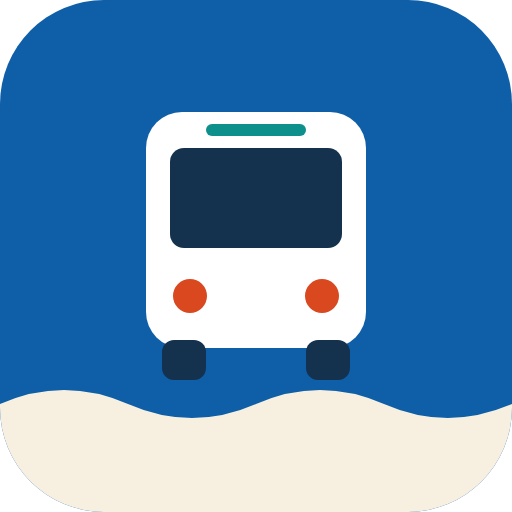
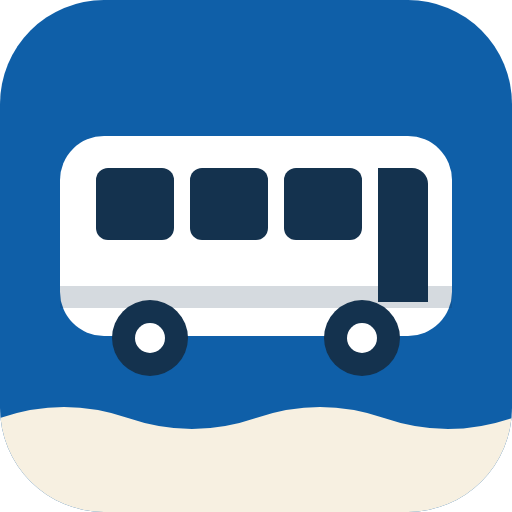
Capçalera amb icones, icona de bus nova, altra vorera i peu de pàgina
- Capçalera: icona de bus i títol que tornen a «Pròxim bus"; botons d'alt
  contrast, text gran i mode fosc (lluna/sol) al costat de l'idioma.
- Icona de l'app nova (bus de costat) en totes les mides.
- Cinc pestanyes, a tot l'ample en PC; «Sobre l'app» passa al peu, amb
  «Avisa d'un error» (camp contacte de servei.json) i «Instal·la l'app».
- Targeta: sentit de la parada i parades següents; requadre de la parada
  de l'altra vorera (5/14, 6/13, 7/12).
- Tests automàtics en GitHub Actions. sw.js: VERSIO 3.

Claude-Session: https://claude.ai/code/session_01WhiUZURAswTC63Z3xvBL9s

Changed region(s): [[0.0, 0.2188, 1.0, 0.8438]]

diff --git a/index.html b/index.html
@@ -20,7 +20,11 @@
 <a class="salta" href="#contingut" data-i18n="app.salta"></a>
 <header class="capcalera">
   <div class="pagina capcalera-dins">
-    <p class="marca"><span data-i18n="app.titol"></span> <span class="marca-lloc">Oliva</span></p>
+    <a class="marca" href="#proper"><svg class="icona-bus" width="30" height="20" viewBox="40 130 432 270" aria-hidden="true" focusable="false"><rect x="60" y="150" width="392" height="200" rx="44" fill="currentColor"/><g fill="var(--cap-fons)"><rect x="96" y="182" width="78" height="72" rx="12"/><rect x="190" y="182" width="78" height="72" rx="12"/><rect x="284" y="182" width="78" height="72" rx="12"/><path d="M378 182h34a16 16 0 0 1 16 16v118h-50z"/></g><circle cx="150" cy="352" r="38" fill="currentColor"/><circle cx="150" cy="352" r="15" fill="var(--cap-fons)"/><circle cx="362" cy="352" r="38" fill="currentColor"/><circle cx="362" cy="352" r="15" fill="var(--cap-fons)"/></svg><span data-i18n="app.titol"></span> <span class="marca-lloc">Oliva</span></a>
+    <div class="eines-cap">
+      <button type="button" class="boto-icona" data-mode="contrast" aria-pressed="false"><svg width="22" height="22" viewBox="0 0 24 24" aria-hidden="true" focusable="false"><circle cx="12" cy="12" r="9" fill="none" stroke="currentColor" stroke-width="2"/><path d="M12 3a9 9 0 0 1 0 18z" fill="currentColor"/></svg><span class="vh" data-i18n="vis.contrast"></span></button>
+      <button type="button" class="boto-icona" data-mode="text" aria-pressed="false"><span class="icona-text" aria-hidden="true">A<span>A</span></span><span class="vh" data-i18n="vis.text"></span></button>
+      <button type="button" class="boto-icona" data-mode="fosc" aria-pressed="false"><svg class="icona-lluna" width="22" height="22" viewBox="0 0 24 24" aria-hidden="true" focusable="false"><path d="M20 14.5A8 8 0 0 1 9.5 4a8 8 0 1 0 10.5 10.5z" fill="currentColor"/></svg><svg class="icona-sol" width="22" height="22" viewBox="0 0 24 24" aria-hidden="true" focusable="false"><circle cx="12" cy="12" r="4.5" fill="currentColor"/><path d="M12 1.5v3M12 19.5v3M1.5 12h3M19.5 12h3M4.6 4.6l2.1 2.1M17.3 17.3l2.1 2.1M4.6 19.4l2.1-2.1M17.3 6.7l2.1-2.1" stroke="currentColor" stroke-width="2" stroke-linecap="round"/></svg><span class="vh" data-i18n="vis.fosc"></span></button>
     <div class="idiomes">
       <button type="button" id="idioma-boto" class="idioma-boto" aria-expanded="false" aria-controls="idioma-menu"><span class="vh" data-i18n="app.idioma"></span> <span id="idioma-actual"></span><svg class="caret" width="10" height="6" viewBox="0 0 10 6" aria-hidden="true" focusable="false"><path d="M0 0h10L5 6z" fill="currentColor"/></svg></button>
       <ul id="idioma-menu" class="idioma-menu" hidden>
@@ -28,6 +32,7 @@
         <li><button type="button" data-idioma="es" lang="es"><svg class="bandera" width="24" height="16" viewBox="0 0 30 20" aria-hidden="true" focusable="false"><rect width="30" height="20" fill="#AA151B"/><rect y="5" width="30" height="10" fill="#F1BF00"/></svg><span>Español</span></button></li>
         <li><button type="button" data-idioma="en" lang="en"><svg class="bandera" width="24" height="16" viewBox="0 0 60 40" aria-hidden="true" focusable="false"><rect width="60" height="40" fill="#012169"/><path d="M0 0l60 40M60 0L0 40" stroke="#fff" stroke-width="8"/><path d="M0 0l60 40M60 0L0 40" stroke="#C8102E" stroke-width="3"/><path d="M30 0v40M0 20h60" stroke="#fff" stroke-width="12"/><path d="M30 0v40M0 20h60" stroke="#C8102E" stroke-width="7"/></svg><span>English</span></button></li>
       </ul>
+    </div>
     </div>
   </div>
 </header>
@@ -50,7 +55,6 @@
       <li><a href="#horari" data-vista="horari" data-i18n="nav.horari"></a></li>
       <li><a href="#mapa" data-vista="mapa" data-i18n="nav.mapa"></a></li>
       <li><a href="#linia" data-vista="linia" data-i18n="nav.linia"></a></li>
-      <li><a href="#sobre" data-vista="sobre" data-i18n="nav.sobre"></a></li>
     </ul>
   </nav>
   <main id="contingut" tabindex="-1">
@@ -60,6 +64,8 @@
       <h1 id="t-proper" tabindex="-1" data-i18n="proper.titol"></h1>
       <div id="proper" class="targeta" tabindex="-1">
         <p id="proper-parada" class="proper-parada"></p>
+        <p id="proper-sentit" class="sentit-etiqueta" hidden></p>
+        <p id="proper-cami" class="nota" hidden></p>
         <p id="proper-falten" class="proper-falten"></p>
         <p id="proper-compte" class="proper-compte"></p>
         <p id="proper-hora" class="proper-hora"></p>
@@ -76,6 +82,15 @@
           <button type="button" id="boto-comparteix" class="boto" data-i18n="comparteix.boto"></button>
         </div>
         <p id="accions-estat" role="status"></p>
+      </div>
+      <div id="vorera" class="vorera" hidden>
+        <span id="vorera-num" class="vorera-num" aria-hidden="true"></span>
+        <div>
+          <p><strong id="vorera-titol"></strong> <span id="vorera-sentit" class="sentit-etiqueta"></span></p>
+          <p id="vorera-cami" class="nota"></p>
+          <p id="vorera-nota" class="nota"></p>
+          <button type="button" id="vorera-boto" class="boto"></button>
+        </div>
       </div>
       <section id="favorites" aria-labelledby="t-favorites" hidden>
         <h2 id="t-favorites" data-i18n="fav.titol"></h2>
@@ -141,12 +156,6 @@
       <p><span id="sobre-font"></span> <a id="sobre-enllac" rel="noopener"></a></p>
       <p data-i18n="sobre.estimades"></p>
       <p id="sobre-festius"></p>
-      <h2 data-i18n="vis.titol"></h2>
-      <div class="modes">
-        <button type="button" class="boto" data-mode="contrast" aria-pressed="false" data-i18n="vis.contrast"></button>
-        <button type="button" class="boto" data-mode="text" aria-pressed="false" data-i18n="vis.text"></button>
-        <button type="button" class="boto" data-mode="fosc" aria-pressed="false" data-i18n="vis.fosc"></button>
-      </div>
       <p><a href="cartells.html" data-i18n="cartells.enllac"></a></p>
       <h2 data-i18n="sobre.privTitol"></h2>
       <ul>
@@ -154,7 +163,7 @@
         <li data-i18n="sobre.priv2"></li>
         <li data-i18n="sobre.priv3"></li>
       </ul>
-      <h2 data-i18n="sobre.iosTitol"></h2>
+      <h2 id="installa-ios" tabindex="-1" data-i18n="sobre.iosTitol"></h2>
       <ol>
         <li data-i18n="sobre.ios1"></li>
         <li data-i18n="sobre.ios2"></li>
@@ -168,6 +177,11 @@
       </ul>
     </section>
   </main>
+  <footer class="peu">
+    <a href="#sobre" data-i18n="nav.sobre"></a>
+    <a id="avisa-error" rel="noopener" target="_blank" data-i18n="peu.error" hidden></a>
+    <button type="button" id="boto-installa" class="enllac" data-i18n="peu.installa"></button>
+  </footer>
 </div>
 <div id="anunci" class="vh" aria-live="polite"></div>
 <noscript><p class="pagina">Cal JavaScript · Hace falta JavaScript · JavaScript is required</p></noscript>

diff --git a/js/app.js b/js/app.js
@@ -113,11 +113,54 @@ function tria(num, mouFocus) {
 }
 
 // ---------- Pròxim bus ----------
+// «7 Via de Ronda · 8 Plaça d’Europa · 9 Sector 5…»: les parades següents, amb el nom
+// fins al parèntesi.
+function seguentsParades(p) {
+  const ps = parades();
+  const resta = ps.slice(ps.indexOf(p) + 1);
+  const grups = [];
+  resta.slice(0, 3).forEach((q) => {
+    const curt = nom(q).split(' (')[0];
+    const darrer = grups[grups.length - 1];
+    if (darrer && darrer.nom === curt) darrer.nums.push(q.num);
+    else grups.push({ nom: curt, nums: [q.num] });
+  });
+  return grups.map((g) => g.nums.join(', ') + ' ' + g.nom).join(' · ') + (resta.length > 3 ? '…' : '');
+}
+
+// Parada de l'altra vorera: el mateix punt en sentit contrari (no l'eixida ni l'arribada).
+function altraVorera(p) {
+  const ps = parades();
+  return ps.filter((q, i) => q !== p && q.punt === p.punt && i !== 0 && i !== ps.length - 1)[0] || null;
+}
+
+function pintaVorera(p) {
+  const q = altraVorera(p);
+  $('#vorera').hidden = !q;
+  if (!q) return;
+  const ps = parades();
+  $('#vorera-num').textContent = q.num;
+  $('#vorera-titol').textContent = t('vorera.titol', { num: q.num });
+  $('#vorera-sentit').textContent = '→ ' + sentit(q);
+  $('#vorera-cami').textContent = t('proper.seguentsParades', { llista: seguentsParades(q) });
+  $('#vorera-nota').textContent = t(ps.indexOf(q) > ps.indexOf(p) ? 'vorera.mesAvant' : 'vorera.abans');
+  const boto = $('#vorera-boto');
+  boto.textContent = t('vorera.boto', { num: q.num });
+  boto.setAttribute('data-num', q.num);
+}
+
 function pintaProper(ara) {
   const p = paradaActual();
   const el = $('#proper-parada');
-  el.textContent = etiqueta(p);
+  el.textContent = t('proper.parada', { num: p.num }) + ' · ' + nom(p);
   el.setAttribute('data-num', p.num);
+  const s = sentit(p);
+  $('#proper-sentit').hidden = !s;
+  $('#proper-sentit').textContent = s ? (parades().indexOf(p) > 0 && parades().indexOf(p) < parades().length - 1 ? '→ ' : '') + s : '';
+  const cami = seguentsParades(p);
+  $('#proper-cami').hidden = !cami;
+  $('#proper-cami').textContent = cami ? t('proper.seguentsParades', { llista: cami }) : '';
+  pintaVorera(p);
   const nota = $('#proper-estimat');
   nota.hidden = !(p.estimat || senseHoraPas(p));
   if (senseHoraPas(p)) {
@@ -184,7 +227,7 @@ function pintaAPeu(p, primer, ara) {
   const min = S.minutsAPeu(d.metres);
   if (senseHoraPas(p)) {
     el.className = 'nota';
-    el.textContent = t('ubic.tardes', { min });
+    el.textContent = t('ubic.tardes', { min, dist: distancia(d.metres) });
   } else if (primer.ms - ara >= min * 60000) {
     el.className = 'nota';
     el.textContent = t('ubic.atemps', { min });
@@ -305,6 +348,20 @@ function aplicaModes() {
   document.documentElement.classList.toggle('fosc', fosc);
   document.documentElement.classList.toggle('clar', !fosc);
   $('[data-mode="fosc"]').setAttribute('aria-pressed', String(fosc));
+}
+
+// ---------- Instal·lació ----------
+let peticioInstal = null;
+const installada = () => (window.matchMedia && window.matchMedia('(display-mode: standalone)').matches) || navigator.standalone === true;
+// En Android s'usa el diàleg del navegador; si no n'hi ha (iPhone), les instruccions de «Sobre l'app».
+function installa() {
+  if (peticioInstal) {
+    peticioInstal.prompt();
+    peticioInstal = null;
+    return;
+  }
+  if (location.hash !== '#sobre') location.hash = '#sobre';
+  setTimeout(() => { const h = $('#installa-ios'); h.scrollIntoView(); h.focus(); }, 0);
 }
 
 // ---------- Selector i cerca ----------
@@ -432,6 +489,10 @@ function pintaComuns(ara) {
   const sv = estat.servei;
   const avui = S.diaMadrid(ara);
   $('#banner-gratuit').hidden = !sv.gratuit;
+  const error = $('#avisa-error');
+  error.hidden = !sv.contacte;
+  if (sv.contacte) error.href = sv.contacte;
+  $('#boto-installa').hidden = installada();
   $('#avisos').innerHTML = estat.avisos
     .filter((a) => a.inici <= avui && (!a.fi || a.fi >= avui))
     .map((a) => '<p class="avis-oficial">' + escapa(a.text[idioma()] || a.text.va) + '</p>').join('');
@@ -561,6 +622,11 @@ function inicia() {
   $('#anar-origen').addEventListener('change', () => pintaAnar(Date.now()));
   $('#anar-desti').addEventListener('change', () => pintaAnar(Date.now()));
   $('#horari-parada').addEventListener('change', () => pintaHorari(Date.now()));
+  // El títol de la capçalera torna sempre a «Pròxim bus».
+  $('.marca').addEventListener('click', () => { if (location.hash === '#proper') mostraVista('proper', true); });
+  $('#vorera-boto').addEventListener('click', (e) => tria(+e.currentTarget.getAttribute('data-num'), true));
+  window.addEventListener('beforeinstallprompt', (e) => { e.preventDefault(); peticioInstal = e; });
+  $('#boto-installa').addEventListener('click', installa);
   window.addEventListener('hashchange', () => {
     const v = location.hash.slice(1);
     if (VISTES.indexOf(v) >= 0) mostraVista(v, true);

diff --git a/css/app.css b/css/app.css
@@ -76,7 +76,22 @@ h1:focus, main:focus, .targeta:focus { outline-offset: 4px; }
   display: flex; flex-wrap: wrap; align-items: center; justify-content: space-between;
   gap: .5rem; padding-top: .5rem; padding-bottom: .5rem;
 }
-.marca { margin: 0; font: 1rem/1.2 var(--xifres); }
+.marca {
+  display: inline-flex; align-items: center; gap: .5rem; min-height: 44px; margin-right: auto;
+  font: 1rem/1.2 var(--xifres); color: var(--cap-text); text-decoration: none;
+}
+.icona-bus { flex: 0 0 auto; color: var(--cap-text); }
+.eines-cap { display: flex; align-items: center; gap: .375rem; margin-left: auto; }
+.boto-icona {
+  display: inline-flex; align-items: center; justify-content: center; width: 44px; height: 44px; padding: 0;
+  border: 2px solid var(--cap-text); border-radius: 12px; background: transparent; color: var(--cap-text);
+  font: 1rem/1 var(--xifres); cursor: pointer;
+}
+.boto-icona[aria-pressed="true"] { background: var(--cap-text); color: var(--cap-fons); }
+.icona-text { font-size: .75rem; }
+.icona-text span { font-size: 1.125rem; }
+.icona-sol, html.fosc .icona-lluna { display: none; }
+html.fosc .icona-sol { display: block; }
 .marca-lloc { font-family: 'Lexend', sans-serif; }
 @media (max-width: 26rem) { .marca-lloc { display: none; } }
 .idiomes { position: relative; }
@@ -119,8 +134,12 @@ h1:focus, main:focus, .targeta:focus { outline-offset: 4px; }
   list-style: none; margin: .75rem 0 0; padding: 0;
   display: grid; grid-template-columns: repeat(3, minmax(0, 1fr)); gap: .375rem;
 }
-@media (max-width: 20rem) { .navegacio ul { grid-template-columns: repeat(2, minmax(0, 1fr)); } }
-@media (min-width: 40rem) { .navegacio ul { grid-template-columns: repeat(6, auto); justify-content: start; } }
+/* Cinc pestanyes: 3 + 2 en el mòbil i totes en una fila, a tot l'ample, en pantalles grans. */
+.navegacio ul { grid-template-columns: repeat(6, minmax(0, 1fr)); }
+.navegacio li { grid-column: span 2; }
+.navegacio li:nth-child(n+4) { grid-column: span 3; }
+@media (max-width: 20rem) { .navegacio ul { grid-template-columns: minmax(0, 1fr); } .navegacio li, .navegacio li:nth-child(n+4) { grid-column: auto; } }
+@media (min-width: 40rem) { .navegacio ul { grid-template-columns: repeat(5, minmax(0, 1fr)); } .navegacio li, .navegacio li:nth-child(n+4) { grid-column: auto; } }
 .navegacio a {
   display: flex; align-items: center; justify-content: center; min-height: 44px; height: 100%;
   padding: .25rem .5rem; border: 2px solid var(--mar); border-radius: 12px;
@@ -158,6 +177,28 @@ input[type="search"], select {
 .proper-hora { margin: .25rem 0 .5rem; font: clamp(1.5rem, 7vw, 2.25rem)/1.15 var(--xifres); color: var(--mar); }
 .proper-seguents ul { list-style: none; display: inline-flex; flex-wrap: wrap; gap: .25rem .75rem; margin: 0; padding: 0; }
 .proper-seguents li { font-weight: 700; }
+
+/* Sentit, altra vorera i peu */
+.sentit-etiqueta {
+  display: inline-block; margin: .375rem 0 0; padding: .125rem .625rem;
+  border: 2px solid var(--mar); border-radius: 999px; color: var(--mar); font-weight: 700; font-size: .9375rem;
+}
+.vorera {
+  display: flex; align-items: flex-start; gap: .75rem; margin: 0 0 1rem; padding: .75rem 1rem;
+  background: var(--blanc); border: 2px dashed var(--vora); border-radius: 16px;
+}
+.vorera p { margin: .25rem 0; }
+.vorera .sentit-etiqueta { margin: 0; }
+.vorera-num {
+  flex: 0 0 auto; display: inline-flex; align-items: center; justify-content: center;
+  min-width: 2.25rem; height: 2.25rem; border-radius: 1.125rem; background: var(--mar); color: var(--blanc); font: .875rem/1 var(--xifres);
+}
+.peu {
+  display: flex; flex-wrap: wrap; justify-content: center; gap: 0 .75rem;
+  margin-top: 1rem; padding: .5rem 0 2rem; border-top: 1px solid var(--vora); font-size: .875rem;
+}
+.peu a, .enllac { display: inline-flex; align-items: center; min-height: 44px; }
+.enllac { padding: 0; border: 0; background: none; color: var(--mar); font: inherit; text-decoration: underline; text-underline-offset: 2px; cursor: pointer; }
 
 /* Favorites, compartir i visualització */
 .accions { display: flex; flex-wrap: wrap; gap: .5rem; margin-top: .75rem; }

diff --git a/js/i18n.js b/js/i18n.js
@@ -46,7 +46,14 @@ export const TEXTOS = {
     'proper.finalitzat': 'Servei finalitzat. Consulta oliva.es.',
     'proper.capBus': 'No hi ha cap bus previst en els pròxims dies.',
     'proper.eixidaParada1': "És l'hora d'eixida de la parada 1, {nom}. La volta completa dura aproximadament {durada}.",
-    'ubic.tardes': 'Fins a la parada tardes uns {min} min a peu.',
+    'ubic.tardes': 'Estàs a {dist} · uns {min} min a peu.',
+    'proper.seguentsParades': 'Següents: {llista}',
+    'vorera.titol': "A l'altra vorera: parada {num}",
+    'vorera.mesAvant': 'Creua la carretera. Hi passa el mateix bus, més avant en la volta.',
+    'vorera.abans': 'Creua la carretera. Hi passa el mateix bus, abans en la volta.',
+    'vorera.boto': 'Mostra la parada {num}',
+    'peu.error': 'Avisa d’un error',
+    'peu.installa': 'Instal·la l’app',
     'anar.pujaSenseHora': 'Puja a la parada {parada}.',
     'anar.baixaSenseHora': 'Baixa a la parada {parada} ({n} parades després).',
     'anar.voltaSenseHora': 'El bus passa pel final del recorregut (parada {num}) i continua en la volta següent.',
@@ -192,7 +199,14 @@ export const TEXTOS = {
     'proper.finalitzat': 'Servicio finalizado. Consulta oliva.es.',
     'proper.capBus': 'No hay ningún autobús previsto en los próximos días.',
     'proper.eixidaParada1': 'Es la hora de salida de la parada 1, {nom}. La vuelta completa dura aproximadamente {durada}.',
-    'ubic.tardes': 'Hasta la parada tardas unos {min} min a pie.',
+    'ubic.tardes': 'Estás a {dist} · unos {min} min a pie.',
+    'proper.seguentsParades': 'Siguientes: {llista}',
+    'vorera.titol': 'En la otra acera: parada {num}',
+    'vorera.mesAvant': 'Cruza la carretera. Pasa el mismo autobús, más adelante en la vuelta.',
+    'vorera.abans': 'Cruza la carretera. Pasa el mismo autobús, antes en la vuelta.',
+    'vorera.boto': 'Ver la parada {num}',
+    'peu.error': 'Avisa de un error',
+    'peu.installa': 'Instala la app',
     'anar.pujaSenseHora': 'Sube en la parada {parada}.',
     'anar.baixaSenseHora': 'Bájate en la parada {parada} ({n} paradas después).',
     'anar.voltaSenseHora': 'El autobús pasa por el final del recorrido (parada {num}) y sigue en la vuelta siguiente.',
@@ -338,7 +352,14 @@ export const TEXTOS = {
     'proper.finalitzat': 'This service has ended. Check oliva.es.',
     'proper.capBus': 'No buses are scheduled in the next few days.',
     'proper.eixidaParada1': 'This is the departure time from stop 1, {nom}. A full loop takes about {durada}.',
-    'ubic.tardes': 'It is about a {min}-minute walk to the stop.',
+    'ubic.tardes': 'You are {dist} away · about a {min}-minute walk.',
+    'proper.seguentsParades': 'Next stops: {llista}',
+    'vorera.titol': 'Across the road: stop {num}',
+    'vorera.mesAvant': 'Cross the road. The same bus stops there, later on its loop.',
+    'vorera.abans': 'Cross the road. The same bus stops there, earlier on its loop.',
+    'vorera.boto': 'Show stop {num}',
+    'peu.error': 'Report a mistake',
+    'peu.installa': 'Install the app',
     'anar.pujaSenseHora': 'Get on at stop {parada}.',
     'anar.baixaSenseHora': 'Get off at stop {parada} ({n} stops later).',
     'anar.voltaSenseHora': 'The bus goes past the end of the route (stop {num}) and carries on into the next loop.',

diff --git a/sw.js b/sw.js
@@ -2,7 +2,7 @@
 // - Estructura de l'app: memòria cau prèvia (canvieu VERSIO quan publiqueu canvis en l'app).
 // - Dades (data/*): primer per xarxa; si no n'hi ha, la còpia desada, amb la data en què es va desar.
 // - Tessel·les del mapa i altres orígens: no es toquen (van directes a la xarxa).
-const VERSIO = '2';
+const VERSIO = '3';
 const CAU_APP = 'busoliva-app-' + VERSIO;
 const CAU_DADES = 'busoliva-dades';
 const APP = [

diff --git a/README.md b/README.md
@@ -14,7 +14,9 @@ L'app **no sap on és l'autobús**: tot es calcula a partir de l'horari oficial,
 - **Avisos** amb data d'inici i de fi i bàner del servei temporal. La data de comprovació i l'enllaç a la font són en «Sobre l'app» i en els cartells.
 - **Tres idiomes**: valencià (per defecte), castellà i anglès. Es recorda l'idioma triat.
 - **Sense connexió**: funciona tot menys el mapa i avisa de la data de les dades desades. Avisa quan hi ha una versió nova i explica com instal·lar-la en iOS.
-- **Favorites** (fins a 3), **compartir una parada** (`?parada=N`), **cartells A4 amb codi QR** (`cartells.html`) i modes d'**alt contrast**, **text gran** i **fosc** (per defecte segueix el del mòbil).
+- **Parada de l'altra vorera**: en les parades que tenen una germana a l'altra vorera (5/14, 6/13, 7/12), l'app la mostra amb el seu sentit i les parades següents.
+- **Favorites** (fins a 3), **compartir una parada** (`?parada=N`), **cartells A4 amb codi QR** (`cartells.html`).
+- En la capçalera: **alt contrast**, **text gran**, **mode fosc** (per defecte segueix el del mòbil) i idioma. Al peu: «Sobre l'app», «Avisa d'un error» i «Instal·la l'app».
 
 ## Estructura
 
@@ -45,6 +47,7 @@ Totes les dades són en `data/`. La interfície no té cap hora ni cap parada es
 | `font.url`, `font.titol`, `font.data_avis` | Enllaç i dades de l'avís oficial. |
 | `durada_volta_minuts` | Durada aproximada de la volta completa (l'avís diu «aproximadament una hora»). |
 | `gratuit` | `true` si el servei és gratuït. |
+| `contacte` | Enllaç de «Avisa d'un error» (una adreça `mailto:…` o una web). Si és `null`, l'enllaç no ix. |
 
 ### Parades: `data/servei.json`, camp `parades`
 
@@ -112,6 +115,8 @@ Qualsevol servidor estàtic serveix, perquè totes les rutes són relatives. La 
 | `npm run carrers` | Genera la xarxa de carrers per a la distància a peu (`data/carrers.json`). |
 | `npm run qr` | Torna a generar els codis QR dels cartells (`URL_APP=https://…/ npm run qr` per a una altra adreça). |
 | `npm run vendor` | Torna a copiar Leaflet i les fonts des de `node_modules`. |
+
+Cada vegada que es puja un canvi a GitHub, els tests s'executen sols (pestanya **Actions**). Si ix una creu roja, alguna cosa s'ha trencat: per exemple, un JSON mal escrit.
 
 ## Com es publica (GitHub Pages)
 
